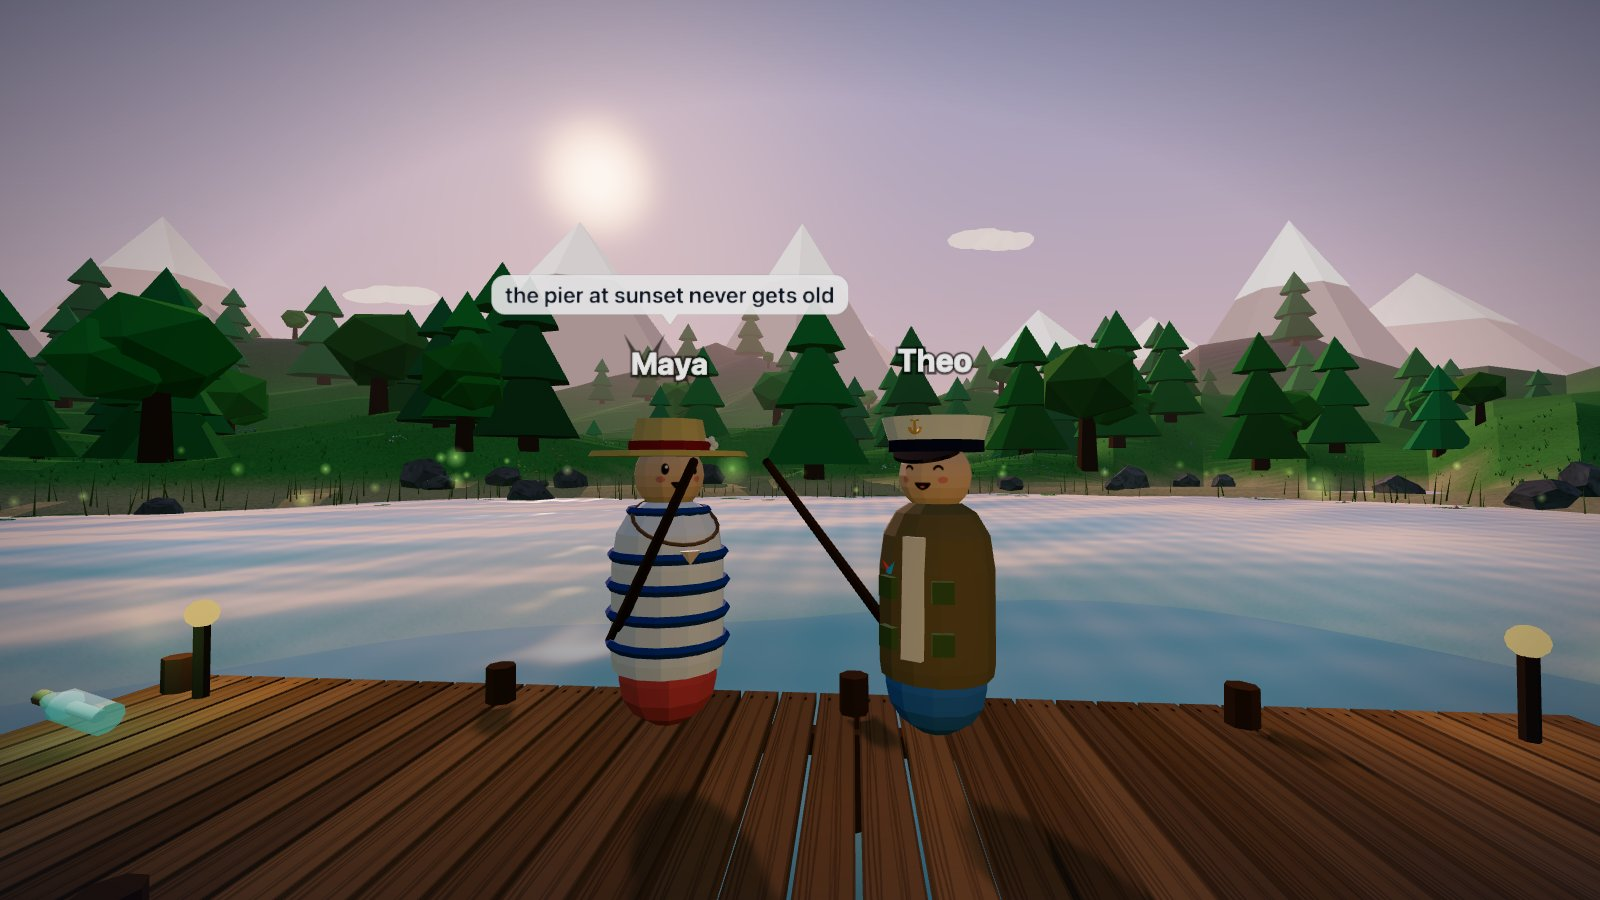
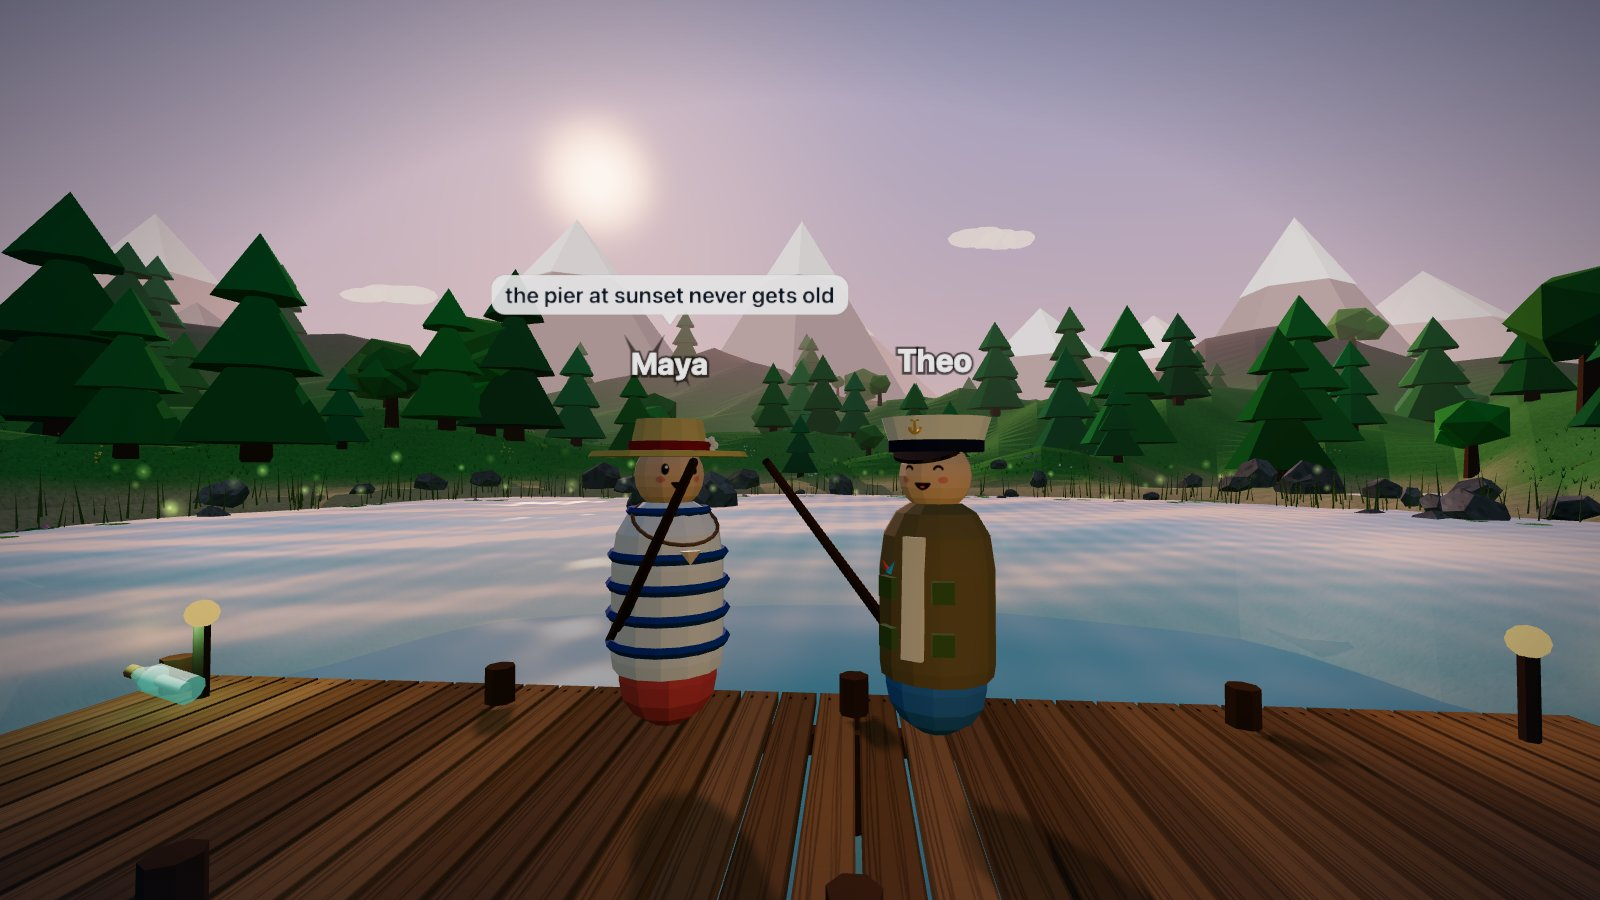
Map rework steps 4 and 5 (🚧): the smoke test and README screenshots staged on the new map (the pier head, the quay line-up, Reed's beach), the What's new entry 'The harbour' with a photo, the GAME_DESIGN.md town section and its dated decision, the map-rework README marked built; Pip runs round the S

diff --git a/scripts/screenshots.ts b/scripts/screenshots.ts
@@ -147,11 +147,11 @@ try {
   // Two friends chatting on the pier head at sunset, seen by a third player.
   if (want('dock') || want('night')) {
     const [maya, theo, cam] = [await join('Maya', 'shots'), await join('Theo', 'shots'), await join('Cam', 'shots')];
-    const M = { x: -0.75, z: -5.2 }, T = { x: 0.75, z: -5.2 }, C = { x: 0.3, z: -1.6 };
+    const M = { x: -0.75, z: -7.8 }, T = { x: 0.75, z: -7.8 }, C = { x: 0.3, z: -4.2 };
     // Each faces halfway between the other and the camera, so both faces show.
     await game(maya, `G.teleport(${M.x}, ${M.z}); G.look(${yawTo(M.x, M.z, (T.x + C.x) / 2, (T.z + C.z) / 2)}, 0);`);
     await game(theo, `G.teleport(${T.x}, ${T.z}); G.look(${yawTo(T.x, T.z, (M.x + C.x) / 2, (M.z + C.z) / 2)}, 0);`);
-    await game(cam, `G.teleport(${C.x}, ${C.z}); G.look(${yawTo(C.x, C.z, 0, -5.2)}, 0.02); G.day(0.5);`);
+    await game(cam, `G.teleport(${C.x}, ${C.z}); G.look(${yawTo(C.x, C.z, 0, -7.8)}, 0.02); G.day(0.5);`);
     await sleep(1500);
     await maya.keyboard.press('Enter');
     await maya.keyboard.type('the pier at sunset never gets old');
@@ -170,7 +170,7 @@ try {
   // A real cast with top gear, caught mid-fight with the tension ring showing.
   if (want('reel')) {
     const p = await join('Reeler', 'reel');
-    await game(p, `G.teleport(0.2, -5.4); G.look(0.15, -0.12); G.day(0.44);`);
+    await game(p, `G.teleport(0.2, -8.4); G.look(0.15, -0.12); G.day(0.44);`);
     await sleep(800);
     let shot = false;
     for (let attempt = 0; attempt < 6 && !shot; attempt++) {
@@ -215,24 +215,24 @@ try {
     await leave(p);
   }
 
-  // Seven players in different outfits on the cross-pier, facing a camera on the main pier. The sun
-  // always sits toward -z, so looking +z lights them from the front.
+  // Seven players in different outfits along the quay behind the pier root, facing a camera on the main pier.
+  // The sun always sits toward -z, so looking +z lights them from the front.
   if (want('outfits')) {
     const names = ['Dee', 'Juno', 'Rex', 'Ivy', 'Nell', 'Kai', 'Pip'];
     const models: Page[] = [];
     for (const n of names) models.push(await join(n, 'outfits'));
     const cam = await join('Cam', 'outfits');
-    const C = { x: 0, z: 0.4 };
+    const C = { x: 0, z: 6.5 };
     for (let i = 0; i < names.length; i++) {
       // Looking +z puts +x on the left of the frame. A shallow arc keeps the ends from looking far away.
       const x = ((names.length - 1) / 2 - i) * 1.2;
-      const z = 4.6 - Math.abs(x) * 0.1;
+      const z = 12.2 - Math.abs(x) * 0.1;
       await game(models[i], `G.teleport(${x}, ${z}); G.look(${yawTo(x, z, C.x, C.z)}, 0);`);
     }
     await game(cam, `G.teleport(${C.x}, ${C.z}); G.look(Math.PI, -0.04); G.day(0.45);`);
     await sleep(2500);
     await hideHud(cam);
-    // Cropped above the dock's crate, which sits between the camera and the group.
+    // Cropped to the group and the harbour front behind it.
     await shoot(cam, 'outfits', { x: 0, y: 20, width: 1600, height: 715 });
     await leave(cam, ...models);
   }

diff --git a/src/data/news.ts b/src/data/news.ts
@@ -17,6 +17,7 @@
  *     body: ['Past level 30, ...', 'Ask <b>Captain Reed</b> at the harbour to ...'] },
  */
 import deepSea from '../assets/images/news/deep-sea.jpg';
+import harbour from '../assets/images/news/harbour.jpg';
 import deepSeaRod from '../assets/images/news/deep-sea-rod.jpg';
 import fightLeft from '../assets/images/news/fight-left.jpg';
 import reelFight from '../assets/images/news/reel-fight.jpg';
@@ -36,6 +37,18 @@ export interface NewsEntry {
 }
 
 export const NEWS: NewsEntry[] = [
+  {
+    id: 5,
+    date: '2026-11-08',
+    title: 'The harbour',
+    image: harbour,
+    alt: "Looking back at the harbour from the pier by day: the quay across the cove with a jetty either side, Top Anglers and the wardrobe mirror on the deck, Marlow's striped stall and the Smokehouse behind, and the main street up to the gate",
+    body: [
+      "The lakeside has a new shape. The town now wraps a small cove: a timber <b>quay</b> runs across the back of it, the pier runs out from the quay's middle to the T end, and a short <b>jetty</b> either side of the pier gives two more spots to cast from. Out past the T end, a rock islet marks the open lake.",
+      "Everything you know is along the waterfront. <b>Marlow's stall</b> and the <b>Smokehouse</b> stand behind the quay facing the water, <b>Top Anglers</b> is on the deck beside the pier, and the <b>wardrobe mirror</b> is at the quay's east end by the bench jetty. The well square up the main street is now a junction: lanes run round past the cottages, down to the campfire on the east headland and over to the worm patch.",
+      "<b>Captain Reed's</b> corner is the quay's west end. His lane runs down past the worm patch and the <b>Furthest Out</b> board to his beach, and his seaplane floats in the cove in view from the pier. The messages in bottles have moved too: there are still seven to find.",
+    ],
+  },
   {
     id: 4,
     date: '2026-11-03',

diff --git a/scripts/smoke.ts b/scripts/smoke.ts
@@ -182,7 +182,8 @@ async function pondChecks(): Promise<void> {
   const blocked = await page.evaluate(() => {
     const cs = (window.__game.world as any).colliders as { x: number; z: number; r: number }[];
     const hit = (x: number, z: number) => cs.some((c) => Math.hypot(c.x - x, c.z - z) < c.r + 0.05);
-    return { bucket: hit(-0.8, 1.6), barrel: hit(7.8, 4.5), reed: hit(-15.1, 13.9), plane: hit(-18.19, 13.56), stallBarrel: hit(8.4, 19.2) };
+    // The pier's bucket, the east jetty's barrel, Reed on his beach, the seaplane's nose at the sand and a quay barrel.
+    return { bucket: hit(-0.8, 1.6), barrel: hit(8.2, 8.6), reed: hit(-20, 1), plane: hit(-16.74, -2.0), stallBarrel: hit(-8, 13.6) };
   });
   check('pond: dock props and NPCs can be walked through', !blocked.bucket && !blocked.barrel && !blocked.reed, JSON.stringify(blocked));
   check('pond: shore props still block, and so does the seaplane at the water\'s edge', blocked.stallBarrel && blocked.plane, JSON.stringify(blocked));
@@ -864,7 +865,8 @@ async function tripChecks(): Promise<void> {
   };
   await dev('/login smoke smoke-dev-pass');
   const toReed = async () => {
-    await page.evaluate(() => { window.__game.teleport(-15.93, 15.17); window.__game.look(-0.58, -0.05); });
+    // Two steps in front of Reed on his beach (`HARBOUR.stand`), looking at him.
+    await page.evaluate(() => { window.__game.teleport(-18.2, 1.6); window.__game.look(1.25, -0.05); });
     await sleep(600);
     await page.evaluate(() => window.__game.interact());
     await sleep(300);

diff --git a/src/data/maps.ts b/src/data/maps.ts
@@ -228,7 +228,7 @@ export const MAPS: MapDef[] = [
         },
         {
           name: 'Pip', face: 'tongue', x: 2.6, z: 33.5, facing: faceToward(2.6, 33.5, 0, 32), coat: 0xc2543d,
-          // Laps the well, then runs down the main path to the fish racks behind the Smokehouse.
+          // Laps the well, then runs down the main path and round to the fish racks behind the Smokehouse.
           walk: {
             speed: 2.2,
             wait: 3,
@@ -239,7 +239,8 @@ export const MAPS: MapDef[] = [
               { x: -1.63, z: 27.9 },
               { x: 0, z: 26.5 },
               { x: 3.5, z: 23 },
-              { x: 9, z: 18.5, wait: 4, face: faceToward(9, 18.5, 10.5, 16.8) },
+              // Round the Smokehouse's back to the racks, clear of the smoker behind it.
+              { x: 10.2, z: 22.6, wait: 4, face: faceToward(10.2, 22.6, 9, 20.2) },
               { x: 3.5, z: 23 },
               { x: 0, z: 26.5 },
               { x: 2.9, z: 31.1 },

diff --git a/src/game/world.ts b/src/game/world.ts
@@ -998,12 +998,12 @@ export class World {
     );
     bucket.position.set(-0.8, 0.85, 1.6);
     bucket.castShadow = true;
-    // Barrel and net stack out on the east pier, a coiled rope on the west.
+    // A barrel at the east jetty's end past the bench, a coiled rope on the west jetty.
     const barrel = new THREE.Mesh(
       new THREE.CylinderGeometry(0.3, 0.3, 0.7, 12),
       lambert(0x8a5a30),
     );
-    barrel.position.set(7.8, 1.05, 4.5);
+    barrel.position.set(8.2, 1.05, 8.6);
     barrel.castShadow = true;
     const rope = new THREE.Mesh(
       new THREE.TorusGeometry(0.22, 0.07, 6, 14),

diff --git a/GAME_DESIGN.md b/GAME_DESIGN.md
@@ -347,11 +347,13 @@ The physical Top Anglers board is a hall of fame built from every account's best
 
 ## 26. The town
 
-The land hub is a small cozy fishing town: a cobbled main street from the pier to the Forest Lake gate, a plaza with a well, six cottages (Wren's Cottage, Smokehouse, Fishmonger, Net Mender and two homes) with lit windows at night, fish racks and a rowboat on the shore, flower beds and fences. Layout lives in `MapDef.town` (`src/data/maps.ts`), geometry in `src/game/town.ts`.
+The land hub is a small cozy fishing town wrapped around a cove like a harbour: two pine-topped headlands frame the water, a timber quay runs across the back of the cove, the pier runs out of the quay's middle to its T end with a short jetty either side of the root, and a rock islet 30 m past the T end is the eye's target. Marlow's stall and the Smokehouse stand behind the quay facing the water with the Fishmonger and Net Mender beside them; the boards stand on the deck by the pier root and the wardrobe mirror at the quay's east end by the bench jetty. A cobbled main street climbs from the quay to the well square, which is a junction: lanes run round the village (past Wren's Cottage down to the worm patch and the quay's west end, and past the Net Mender down to the campfire on the east headland), and three more cottages stagger up to the casino gate. The quay's west end is Captain Reed's corner: his lane runs down past the worm patch and the Furthest Out board to his beach, and his seaplane floats in the cove. Layout lives in `MapDef.town` (`src/data/maps.ts`), the shoreline and docks in `src/game/env.ts`, geometry in `src/game/town.ts` and `src/game/hub.ts`.
+
+- **Decision (2026-11-08)**: the map was reworked from the straight-shore layout to the "Harbour crescent" plan, the hybrid judged best of three options (37/40). The brief, the three plans and every round's scores are in `docs/map-rework/` (`JUDGING.md`, `harbour.md`); the greybox and build findings in `docs/map-rework/HANDOFF.md`.
 
 - **Townsfolk**: Old Salty (pier tips), Pip, Granny Wren and Captain Reed. Press E to talk; lines cycle and some change at night.
 - **Messages in bottles**: 7 hidden around town, shore and pier. Each pays 40 coins once; finding all 7 pays a 300 coin bonus. Found bottles are saved per account (`SaveData.bottles`); the server verifies the player is within 4 m.
-- **Coziness**: lantern posts line the street (some cast real light at night), benches and planters ring the plaza, string lights span the street, a log-seat fire pit sits by the Smokehouse, picnic blankets overlook the water, and firewood is stacked by the cottages. Bottles rest on the ground; the rowboat sits upright on the shore.
+- **Coziness**: lantern posts line the quay, the street and the lanes (eight cast real light at night), benches and planters ring the plaza, string lights span the quay's rear, the square and the gate, a bench on the east jetty looks across the water to the campfire, a picnic blanket overlooks Reed's lane, and firewood is stacked by Wren's Cottage. Bottles rest on the ground or the deck; the rowboat is moored beside the west jetty.
 
 ## 27. Night fishing
 

diff --git a/TODO.md b/TODO.md
@@ -6,7 +6,7 @@ Finished items move to [DONE.md](DONE.md).
 
 ## Up next
 
-- [ ] 🚧 📋 Lakeside map rework: build "Harbour crescent, hybrid, round 5" on branch `map-rework` (Oscar, 2026-11-08). The plan, the layout in the engine's terms and the build steps are in `docs/map-rework/HANDOFF.md`; steps 2 and 3 are built (the harbour's ground and timber, then the town, lanes, props, NPC walks, bottles and Reed's corner from the plan); left: step 4 (smoke, bench against main, screenshots) and step 5 (docs, GAME_DESIGN.md decision, What's new entry with a photo)
+- [ ] 🚧 📋 Lakeside map rework: build "Harbour crescent, hybrid, round 5" on branch `map-rework` (Oscar, 2026-11-08). The plan, the layout in the engine's terms and the build steps are in `docs/map-rework/HANDOFF.md`; built and checked (tests, smoke, README screenshots, the What's new entry with a photo, the GAME_DESIGN.md decision). Left before merging: the A/B bench against main, Oscar's play test of the flagged defaults (the Top Anglers spot on the deck, the bare headland tips, the islet's size, Reed's lane at the water's edge), the What's new entry's date set on merge, and the town table in `docs/systems/world-and-rendering.md` on branch `docs-pass` once that branch merges
 - [ ] Update the README with the newer features, a follow-up to the finished "Fill out readme" (DONE.md)
   - Add the deep sea charters (Reed's seaplane at the beach, the Shelf and Drop-off, Black Pearls, the Deep Sea Rod and its line and their levels, the Furthest Out board, the Kraken), the Lucky Wheel at the casino, and the rest of what's shipped since the last fill-out (check `NEWS` in `src/data/news.ts`). Then go over "About this game" and "Features at a glance" (`README.md:13-58`)
   - Fix what's out of date: the Smokehouse paragraph's "Coming soon: spices for deep-sea charters" (spices were shelved, `README.md:33`). Re-run `npm run screenshots` if a new shot (the harbour, a charter) is worth adding

diff --git a/docs/map-rework/README.md b/docs/map-rework/README.md
@@ -1,6 +1,6 @@
 # Lakeside map rework: the three options (2026-11-05)
 
-Three reworked layouts of the main lakeside map, produced by mockup agents and judged over three rounds. Not implemented; nothing in `src/` changed. `review.html` is the review page (open it in a browser); `JUDGING.md` has the scores and notes per round; `BRIEF.md` is the brief the agents worked to.
+Three reworked layouts of the main lakeside map, produced by mockup agents and judged over three rounds. Oscar picked the Harbour crescent hybrid, and it is built: `HANDOFF.md` has the build plan and the findings from the greybox and the town placement (2026-11-08). `review.html` is the review page (open it in a browser); `JUDGING.md` has the scores and notes per round; `BRIEF.md` is the brief the agents worked to.
 
 - `harbour.json` / `.md` / `.png` — Harbour crescent, hybrid with Boardwalk's hub (37/40, recommended; rounds 4-5 of 2026-11-08)
 - `boardwalk.json` / `.md` / `.png` — Boardwalk and hillside (35/40)
